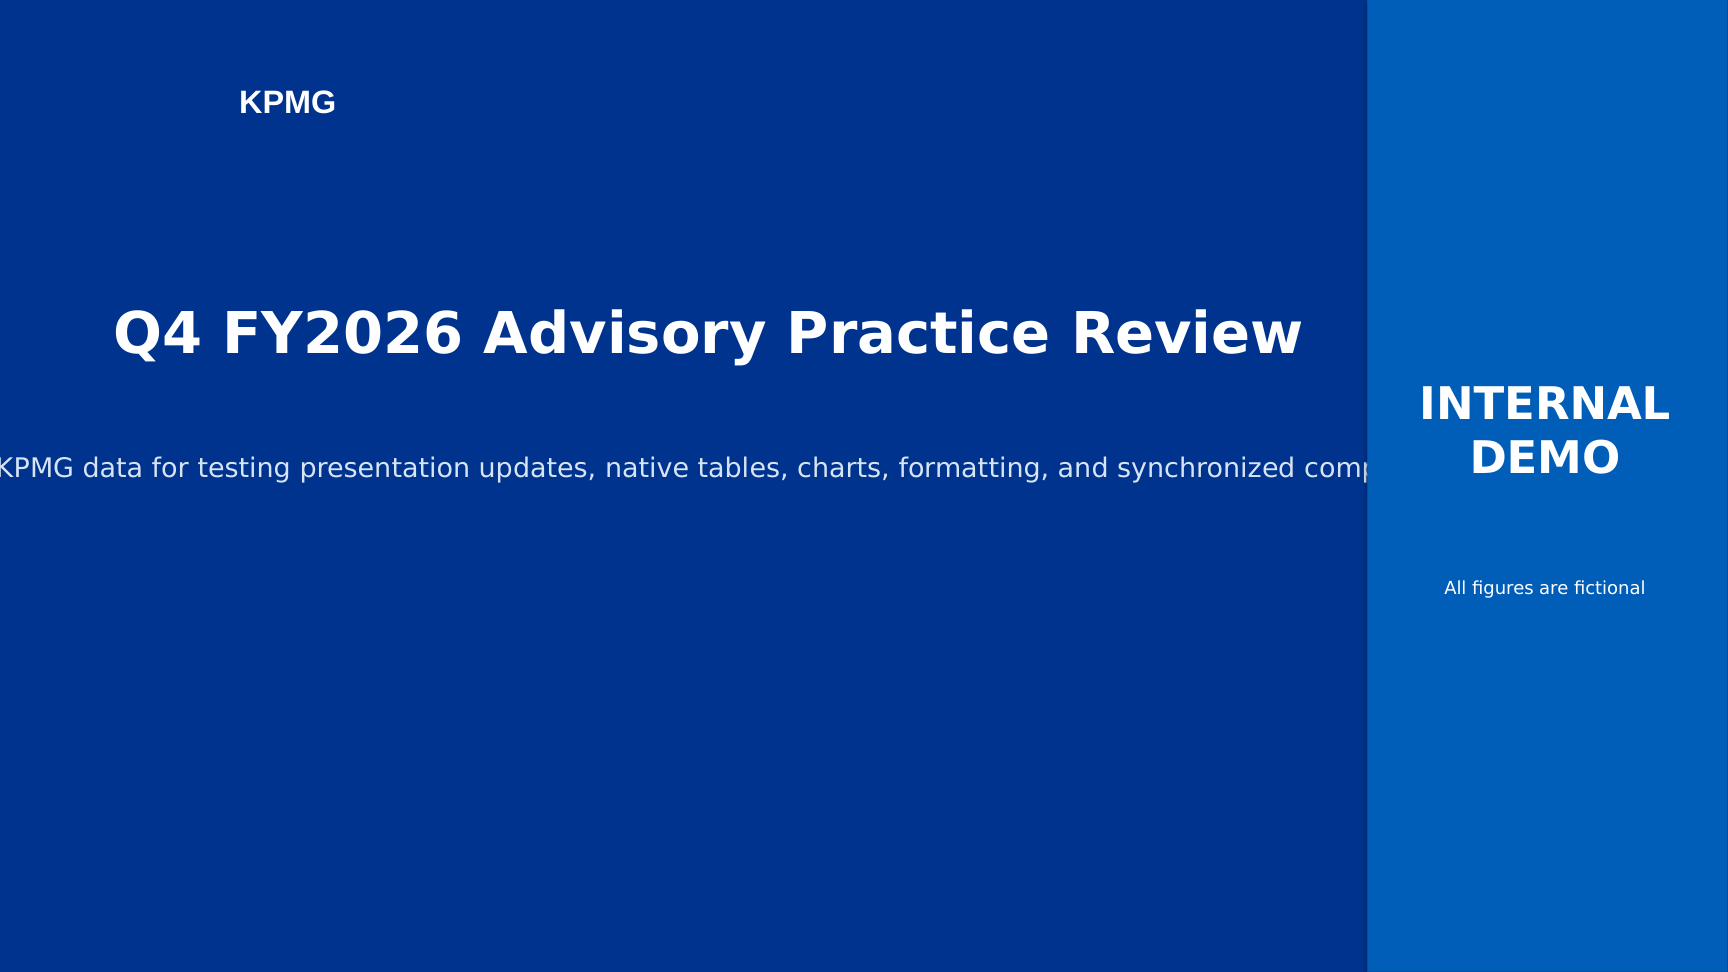
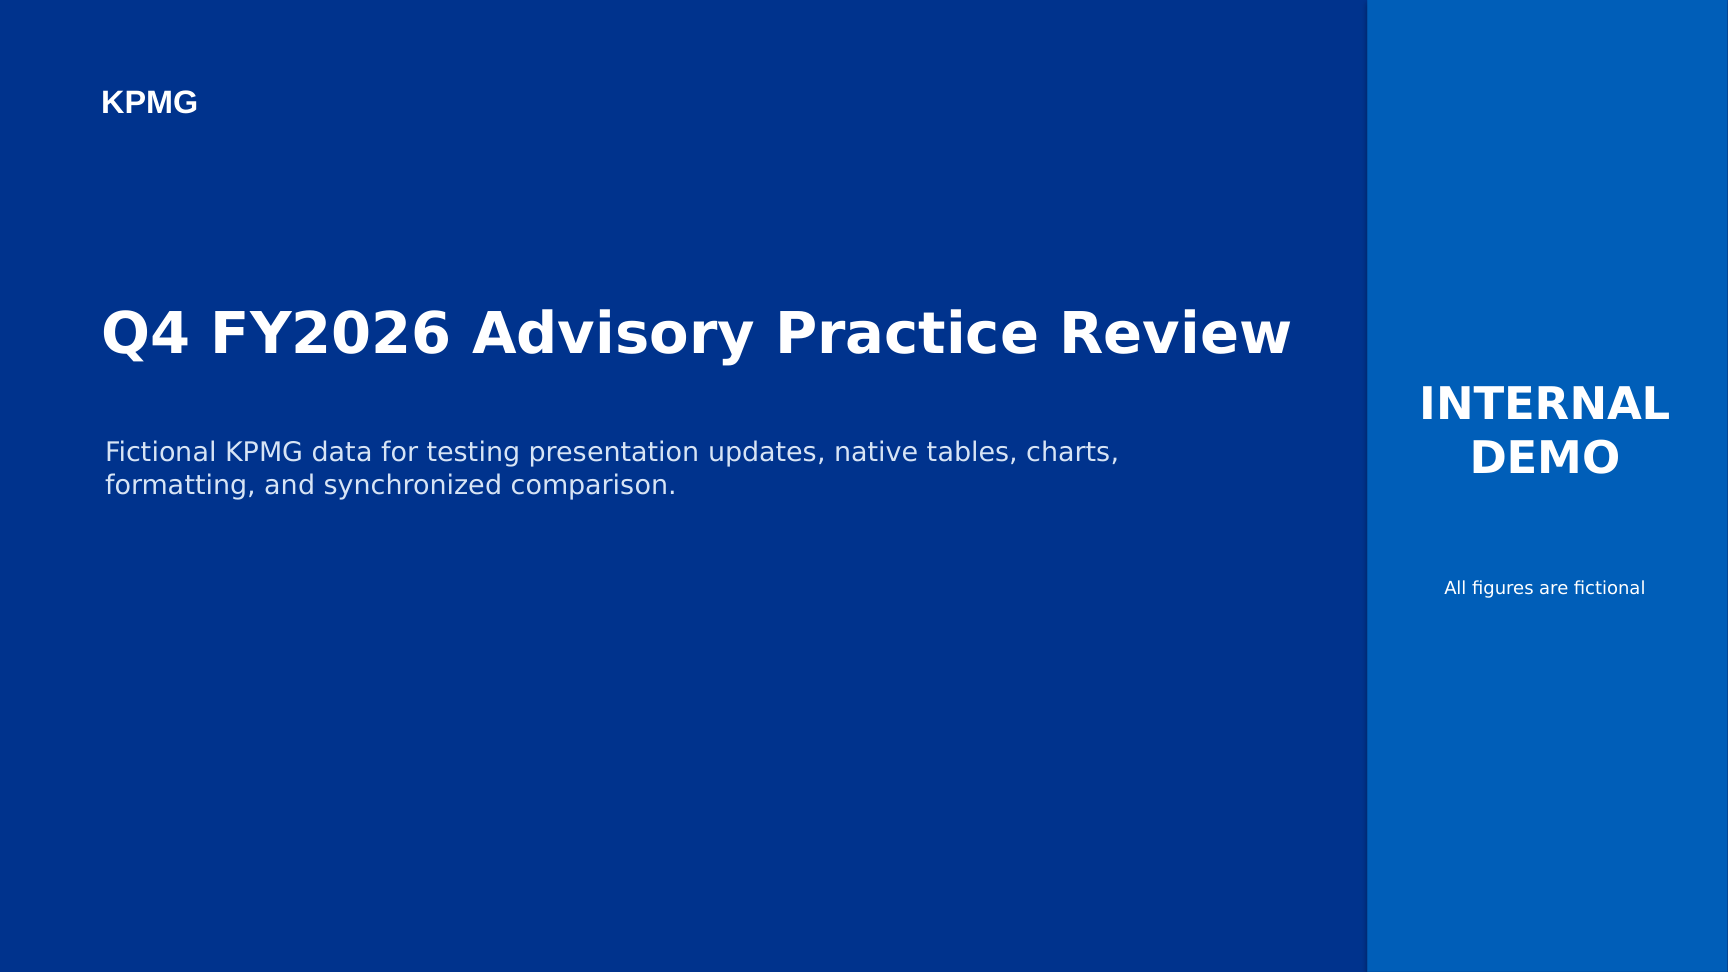
Fix overlapping/cropped text in generated PPTX slides
Root cause: text boxes were created without word_wrap or auto_size
settings, so PowerPoint/LibreOffice expanded them to fit text on a
single line instead of respecting the specified width -- causing long
text (e.g. the cover-slide subtitle) to overflow into neighboring
shapes, and the variance-insights KPMG logo to drift into the title.

- deck-refresh/tools/generate_sample_files.py: word_wrap=True,
  auto_size=NONE on all text boxes; regenerated sample files
- variance-insights/app.py: same fix on the slide-generation header;
  explicit left-alignment on the KPMG logo so it can't center across
  the full-width bar and collide with the title
- Regenerated screenshots in both tools from the fixed output
- Verified via real LibreOffice rendering + programmatic text-position
  extraction (no off-slide or overlapping text spans), including a
  stress test with a deliberately oversized title/subtitle

Changed region(s): [[0.0625, 0.3086, 0.75, 0.3704], [0.0, 0.4321, 0.7812, 0.5247], [0.0625, 0.0926, 0.1875, 0.1235]]

diff --git a/variance-insights/app.py b/variance-insights/app.py
@@ -29,7 +29,7 @@ import pandas as pd
 from pptx import Presentation
 from pptx.util import Inches, Pt
 from pptx.dml.color import RGBColor
-from pptx.enum.text import PP_ALIGN
+from pptx.enum.text import PP_ALIGN, MSO_AUTO_SIZE
 import openpyxl
 from openpyxl.styles import Font, PatternFill, Alignment, Border, Side
 from openpyxl.utils import get_column_letter
@@ -249,8 +249,11 @@ def build_pptx(rows, title, subtitle, comparison_label, out_path):
     bar.fill.fore_color.rgb = KPMG_BLUE
     bar.line.fill.background()
     tf = bar.text_frame
+    tf.word_wrap = False
+    tf.auto_size = MSO_AUTO_SIZE.NONE
     tf.margin_left = Inches(0.3)
     p = tf.paragraphs[0]
+    p.alignment = PP_ALIGN.LEFT
     r = p.add_run()
     r.text = "KPMG"
     r.font.size = Pt(24)
@@ -259,6 +262,8 @@ def build_pptx(rows, title, subtitle, comparison_label, out_path):
     r.font.name = "Arial"
 
     title_box = slide.shapes.add_textbox(Inches(3.4), Inches(0.12), Inches(9.6), Inches(0.65))
+    title_box.text_frame.word_wrap = True
+    title_box.text_frame.auto_size = MSO_AUTO_SIZE.NONE
     tp = title_box.text_frame.paragraphs[0]
     tp.alignment = PP_ALIGN.RIGHT
     tr = tp.add_run()
@@ -270,6 +275,8 @@ def build_pptx(rows, title, subtitle, comparison_label, out_path):
 
     if subtitle:
         sub_box = slide.shapes.add_textbox(Inches(0.4), Inches(1.0), Inches(9), Inches(0.35))
+        sub_box.text_frame.word_wrap = True
+        sub_box.text_frame.auto_size = MSO_AUTO_SIZE.NONE
         sp = sub_box.text_frame.paragraphs[0]
         sr = sp.add_run()
         sr.text = subtitle
@@ -329,6 +336,8 @@ def build_pptx(rows, title, subtitle, comparison_label, out_path):
         cy = Inches(1.5) + Inches(0.35 * table_rows) + Inches(0.25)
         max_h = prs.slide_height - cy - Inches(0.3)
         label_box = slide.shapes.add_textbox(Inches(0.4), cy, Inches(4), Inches(0.3))
+        label_box.text_frame.word_wrap = True
+        label_box.text_frame.auto_size = MSO_AUTO_SIZE.NONE
         lp = label_box.text_frame.paragraphs[0]
         lr = lp.add_run()
         lr.text = "Key Variance Commentary"
@@ -339,6 +348,7 @@ def build_pptx(rows, title, subtitle, comparison_label, out_path):
         box = slide.shapes.add_textbox(Inches(0.4), cy + Inches(0.35), Inches(12.5), max_h - Inches(0.35))
         btf = box.text_frame
         btf.word_wrap = True
+        btf.auto_size = MSO_AUTO_SIZE.NONE
         for i, row in enumerate(commentary_rows):
             para = btf.paragraphs[0] if i == 0 else btf.add_paragraph()
             run = para.add_run()

diff --git a/deck-refresh/tools/generate_sample_files.py b/deck-refresh/tools/generate_sample_files.py
@@ -8,7 +8,7 @@ from pptx.chart.data import ChartData
 from pptx.dml.color import RGBColor
 from pptx.enum.chart import XL_CHART_TYPE, XL_LEGEND_POSITION
 from pptx.enum.shapes import MSO_SHAPE
-from pptx.enum.text import PP_ALIGN, MSO_ANCHOR
+from pptx.enum.text import PP_ALIGN, MSO_ANCHOR, MSO_AUTO_SIZE
 from pptx.util import Inches, Pt
 
 ROOT = Path(__file__).resolve().parents[1]
@@ -51,6 +51,8 @@ def add_text(slide, text, x, y, w, h, size=18, bold=False, color=TEXT,
         shape.line.fill.background()
     tf = shape.text_frame
     tf.clear()
+    tf.word_wrap = True
+    tf.auto_size = MSO_AUTO_SIZE.NONE
     tf.margin_left = Inches(margin)
     tf.margin_right = Inches(margin)
     tf.margin_top = Inches(margin)
@@ -86,7 +88,10 @@ def add_kpi(slide, x, y, w, h, value, label, accent=BLUE):
     stripe = slide.shapes.add_shape(MSO_SHAPE.RECTANGLE, Inches(x), Inches(y), Inches(0.08), Inches(h))
     stripe.fill.solid(); stripe.fill.fore_color.rgb = accent; stripe.line.fill.background()
     tf = card.text_frame
-    tf.clear(); tf.margin_left = Inches(0.18); tf.margin_right = Inches(0.12)
+    tf.clear()
+    tf.word_wrap = True
+    tf.auto_size = MSO_AUTO_SIZE.NONE
+    tf.margin_left = Inches(0.18); tf.margin_right = Inches(0.12)
     tf.margin_top = Inches(0.10); tf.margin_bottom = Inches(0.08)
     p1 = tf.paragraphs[0]
     p1.text = value